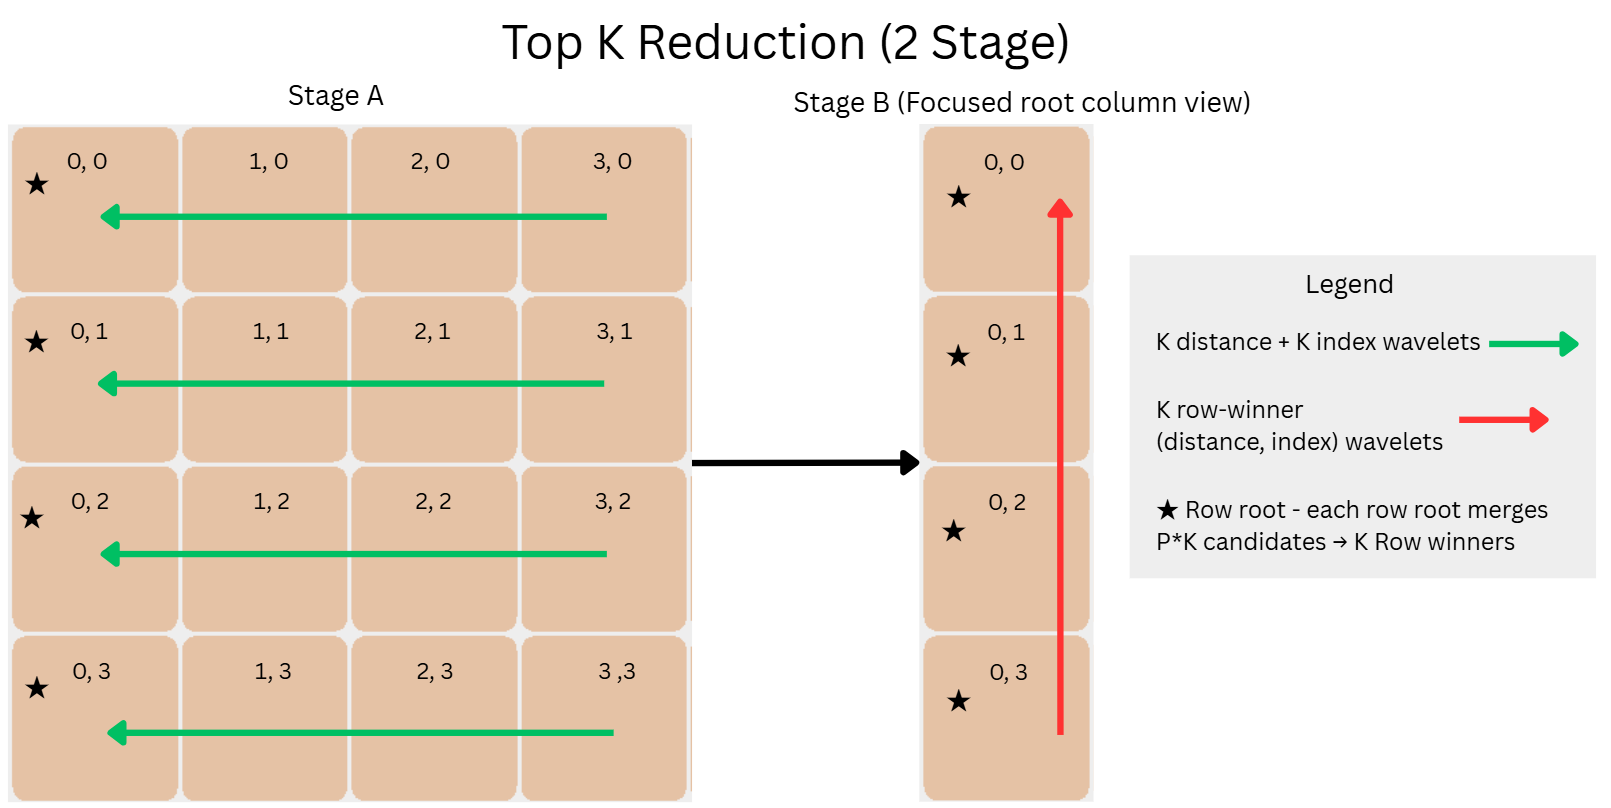
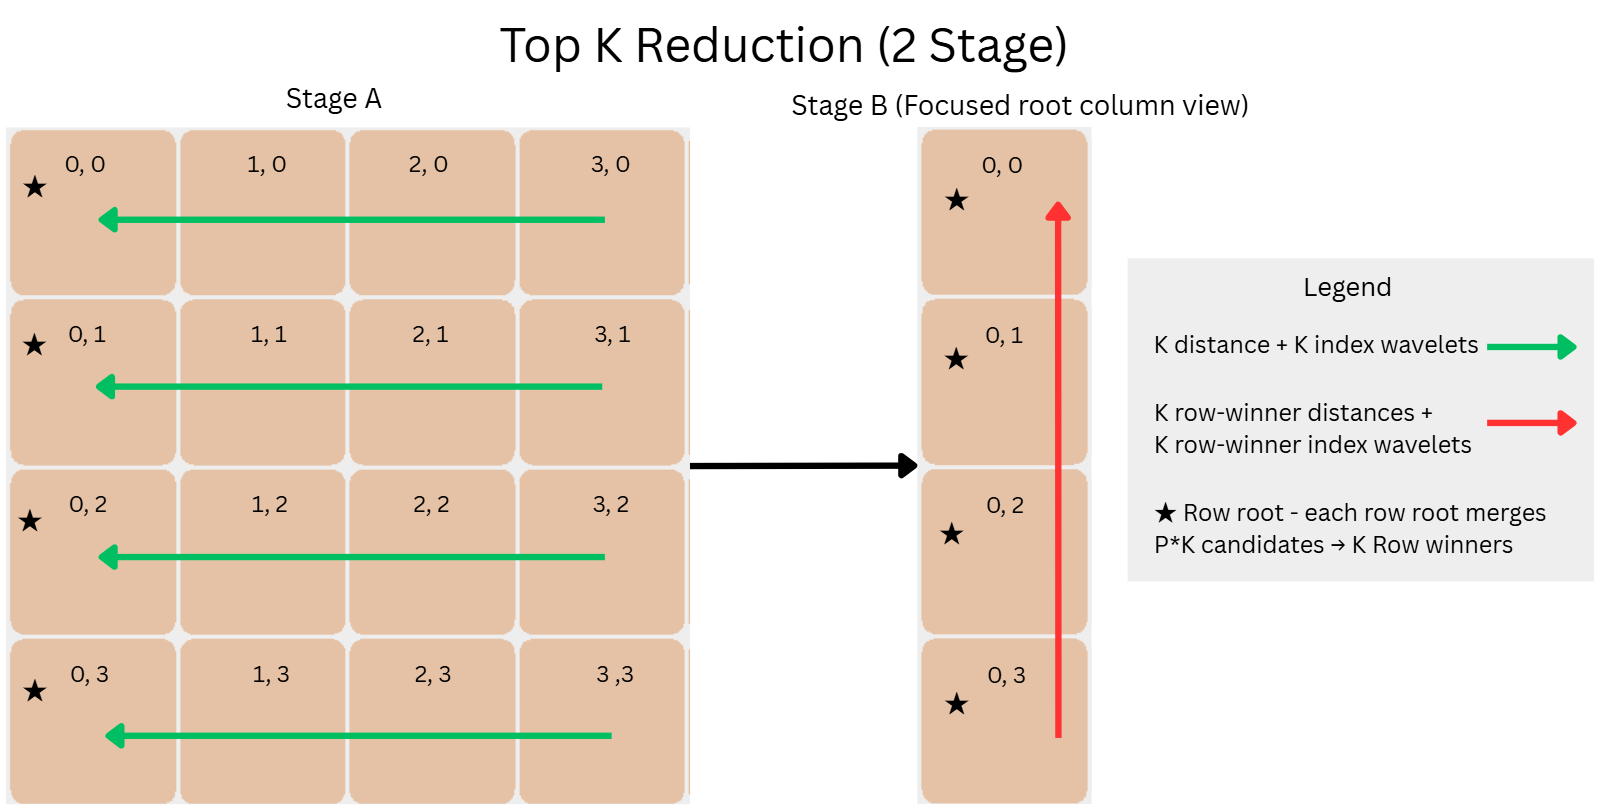
Refine design memo

diff --git a/src-starter/DESIGN.md b/src-starter/DESIGN.md
@@ -2,87 +2,70 @@
 
 Start time: 9:38 PM EST, April 28, 2026
 
-## Local Top-K Strategy
-
-Each PE computes exact squared L2 distance:
-
-```text
-||D_i - q||^2 = ||D_i||^2 + ||q||^2 - 2 * dot(D_i, q)
-```
-
-The host precomputes `D_norms = ||D_i||^2 + ||q||^2`. The PE only adds
-`-2 * dot(D_i, q)`, removing repeated `||q||^2` work.
-
-The dominant loop is distance accumulation: `O(rows_per_pe * d_dim)`. Each
-feature uses one vector `@fmacs` over all local rows. The first FMAC starts from
-`D_norms`, so there is no separate initialization sweep. 
-
-- When `d_dim` is divisible
-by 8, the host packs `D` in feature blocks so the DSD stride is 8. 
-
-Baseline compute is about 25k cycles for `128*32=4096` local elements, 
-roughly 6 cycles per element including loop and address overhead.
-
-Local selection depends on K:
-`K==1` uses linear argmin, `K==16` uses sorted insertion, `K==rows_per_pe` keeps
-all valid rows, and larger non-full K uses a max-heap. Insertion has low overhead
-for small K and produces sorted streams. The heap is better for large K:
-`O(rows_per_pe log K)` instead of shifting up to K slots per insert.
-
 ## Routing Topology
 
-The kernel runs on a `P x P` PE rectangle. PE `(px, py)` owns rows starting at
-`(py * P + px) * rows_per_pe`. The host sends `valid_count` so padding rows are
-ignored during local selection.
+The kernel runs on a `P x P` PE rectangle. PE `(px, py)` owns rows starting at `(py * P + px) * rows_per_pe`.
 
-The host copies `D`, `D_norms`, and `valid_count` to **every** PE. The host copies
-`q` **only** to PE `(0,0)`. The device broadcasts `q` in two steps: across the top
-row on x colors `0/1`, then down each column on y colors `4/5` using the collectives_2d libray.
+The host copies `D`, `D_norms`, and `valid_count` to **every** PE. `valid_count` masks padding rows. The host copies `q` **only** to PE `(0,0)`. The device broadcasts `q` across the top row on x colors `0/1`, then down each column on y colors `4/5` using `collectives_2d`.
 
 ![Query broadcast topology](query_broadcast.png)
 
-After compute (see local top-), candidates reduce in reverse. Each row gathers local top-K to the
-row root at `px=0`, which merges `P*K` candidates to K row winners. Column 0
-then gathers row winners to PE `(0,0)` for the final top-K.
+After compute, each row gathers local top-K Westward to the row root at `px=0`, which merges `P*K` candidates to K row winners. Column 0 then gathers row winners Northward to PE `(0,0)` for the final top-K.
 
 ![Two-stage top-K reduction topology](topk_reduction.png)
 
-The x collective entrypoints are task IDs `10/11`; y entrypoints are `12/13`.
-Query wavelets carry `q`; candidate wavelets carry one distance or one index. I
-keep distance and index gathers separate because fusing them hurt `k_large`.
+The x entrypoints are task IDs `10/11`; y entrypoints are `12/13`. Query wavelets carry `q`; candidate wavelets carry one distance or one index. I keep distance and index gathers separate because fusing them pressured SRAM on `k_large`.
 
+## Local Top-K Strategy
+
+All cases first compute exact squared L2 distances:
+`||D_i - q||^2 = ||D_i||^2 + ||q||^2 - 2 * dot(D_i, q)`.
+The host precomputes `D_norms = ||D_i||^2 + ||q||^2`, so the PE only adds `-2 * dot(D_i, q)`. The dominant loop is distance accumulation, `O(rows_per_pe * d_dim)`: each feature uses one vector `@fmacs` over local rows. The first FMAC starts from `D_norms`, so there is no initialization sweep. When `d_dim` is divisible by 8, host packing makes the DSD stride 8.
+
+Dominant-loop estimate:
+
+```text
+cycles/element ~= compute_task_cycles / (rows_per_pe * d_dim)
+baseline ~= 25.1k / (128*32) ~= 6.1 cycles per local matrix element
+```
+
+Local selection depends on K:
+
+- `K == 1`: single best-row tracker, `O(rows_per_pe)`.
+- Small K (`K <= 16`): sorted insertion, `O(rows_per_pe * K)`. `K == 16` is specialized to reduce loop overhead.
+- Full local K (`K == rows_per_pe`): keep every valid local row. For `k_large`, heap-sort the full stream, `O(rows_per_pe log rows_per_pe)`, so reducers can merge sorted streams.
+- Larger non-full K: max-heap of size K, `O(rows_per_pe log K)`.
+
+I chose this mixed policy because no single method was best for every K. Sorted insertion is cheap for small K and produces sorted streams, which makes reduction cheaper. The heap is better for large K because it avoids shifting up to K entries on each insert.
 
 ## Fabric Bandwidth
 
-Each 32-bit distance or index is one payload wavelet. During row gather, each PE
-sends `K` distance wavelets and `K` index wavelets toward `px=0`. The hot edge is
-next to the row root because traffic from the other `P-1` PEs can cross it. Worst
-case on that edge is:
+During row gather, each PE sends `K` distance wavelets and `K` index wavelets toward `px=0`. The hot edge is next to the row root because traffic from the other `P-1` PEs can cross it.
+
+Worst case on that edge:
 
 ```text
 2 * K * (P - 1) candidate wavelets
 ```
 
-Column gather has the same hot-edge count for row winners. For baseline
-(`P=4,K=16`), this is `96` candidate wavelets. For `k_large` (`P=2,K=256`), it
-is `512`. Query broadcast is smaller: `d_dim` wavelets per path. Traces show
-baseline is mostly memcpy plus FMAC compute, while large K exposes more
-reduction/root work.
+Column gather has the same hot-edge count for row winners. The baseline bottleneck is compute plus host memcpy, not routing. The GUI trace showed H2D movement of `D`, then the FMAC distance loop, as the largest blocks. Routing matters more for `k_large` because each PE sends `K=256` candidates, so root-side merge work and candidate movement become more visible.
 
 ## Tie-Breaking
 
-Every stage uses the same comparison rule: smaller distance wins; if distances
-are equal, smaller original row index wins. Padding uses `(INF,SENTINEL_INDEX)`,
-so padding never beats a real row.
+During local top-K selection, each candidate is tagged with its global index:
+`global_index = (py * P + px) * rows_per_pe + local_row`.
 
-It is safe for each PE to emit only local top-K. If a local row is not in that
-PE's top-K, then at least K rows on the same PE are no worse than it. Therefore
-that row cannot be in the global top-K. Row roots and the final root merge using
-the same comparison rule, so fabric arrival order does not change the answer.
+Every stage uses the same comparison:
+
+```text
+1. smaller distance wins
+2. if distances are equal, smaller global index wins
+```
+
+This gives every candidate one deterministic rank. Ties are stable across PEs because equal-distance candidates are ordered by original row index, not by which PE produced them or when wavelets arrived.
+
+A row outside its PE's local top-K cannot be global top-K because that PE already has K rows that rank better. Arrival order does not matter because reducers rank candidates by `(distance, global_index)`, not by when wavelets arrive.
 
 ## With 2x More Time
 
-I would sweep small unroll factors in the blocked FMAC loop to reduce loop and
-address-update overhead, likely saving hundreds to low-thousands of cycles. I
-would also tune reduction scheduling to remove callback gaps, targeting another
-few hundred to about 1-2k cycles.
+I would prototype a more distributed `k_large` merge to reduce root-side pressure without adding extra SRAM buffers. Since `k_large` is about 318k cycles and spends much more time moving/merging candidates than small-K cases, a reasonable target would be a 5-10% win, roughly 15k-30k cycles, if the extra communication control overhead stays low.
